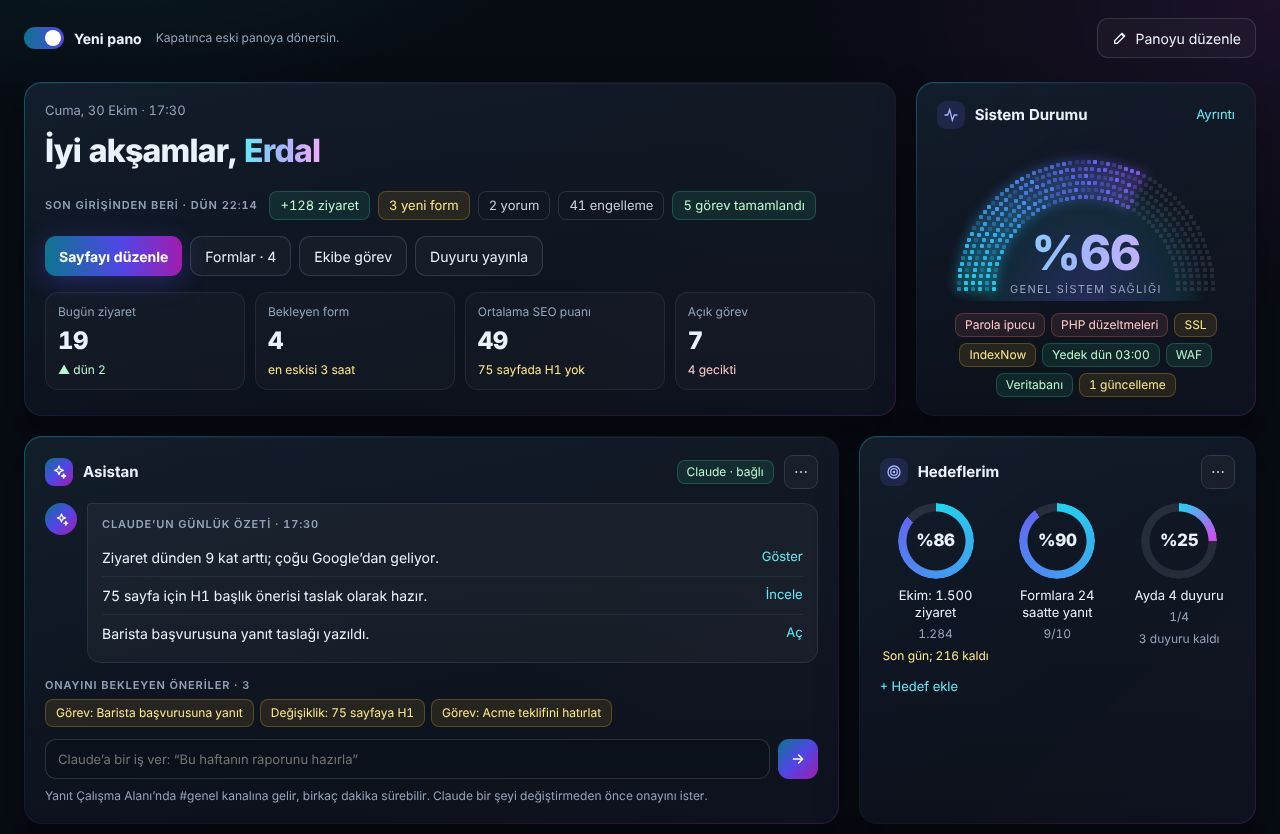
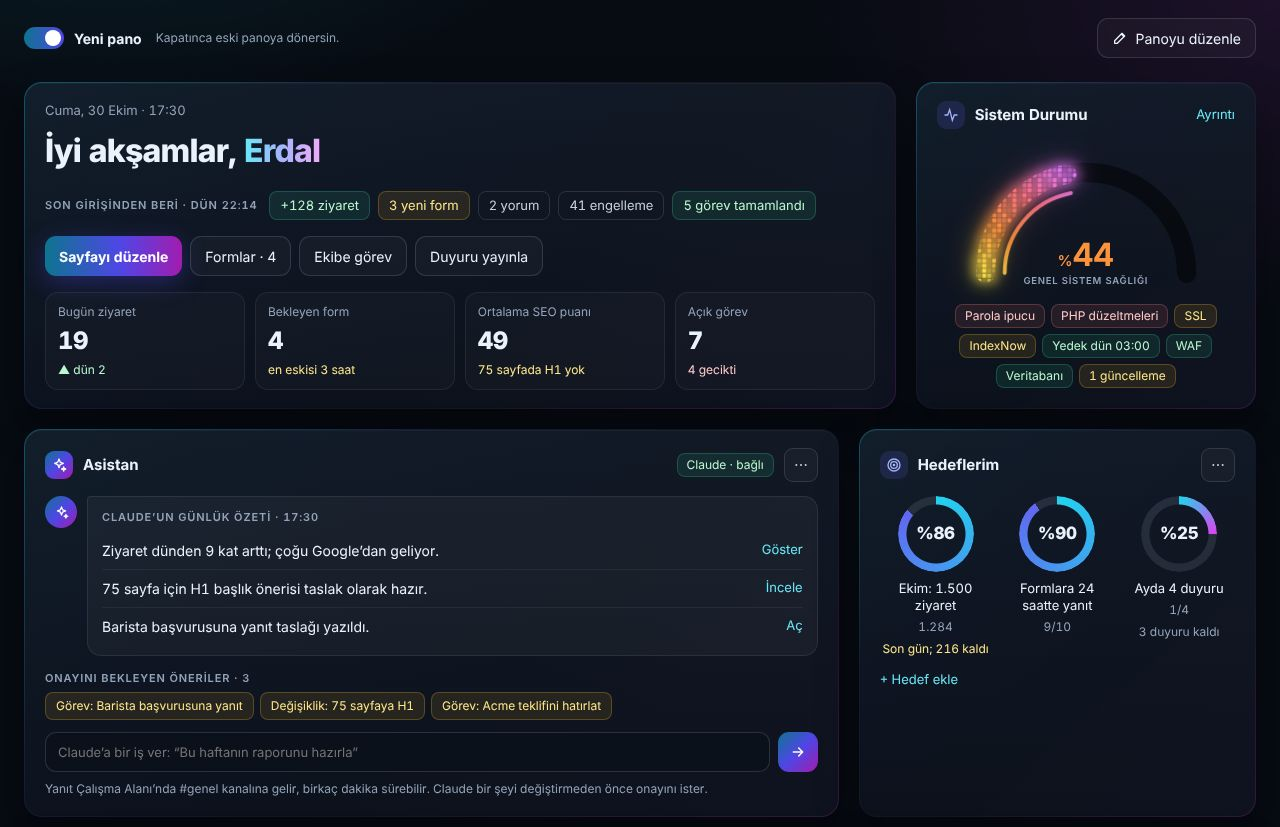
New dashboard plan: the System Status card keeps the current gauge
The new dashboard's System Status card draws widget 2's gauge (the half
arc in the score's colour band with its pixel matrix, glow layers and
readout) instead of the design's dot half ring. N3 moves the gauge into
one function both dashboards call, widget 2's output unchanged. The
screens with the card are drawn again with the current gauge.

diff --git a/docs/memory/plans/new-dashboard-top.md b/docs/memory/plans/new-dashboard-top.md
@@ -15,8 +15,9 @@ description: New dashboard plan: the switch row on both dashboards, the greeting
 - Each figure is one function with its gate, shared by tiles, goals and chips (`new-dashboard-data.md`).
 
 ## What is the System Status card? (N3, screen 01)
-- Widget 2's score and checks in the new look: a half ring of six rows of dots, lit up to the score in the cyan-indigo-magenta gradient with a slow twinkle (none under `prefers-reduced-motion` or with lights off); "%66" and "OVERALL SYSTEM HEALTH" in the middle; the checks as chips (bad, warn, good) linking where widget 2's do (`ui/dashboard-keyboard.md`). "Details" opens what widget 2's header opens.
-- Role < 3, as widget 2. Same numbers on both dashboards: one function computes them for both; widget 2's output does not change.
+- Owner (2026-11-01): its gauge is the current one, widget 2's `.pg-health` (the half arc in the score's colour band, the pixel matrix and its twinkle, the inner hairline, the glow layers, light and dark stop sets, the readout, the observer that pauses it off screen), not the design's dot half ring: three days of work went into it.
+- N3 moves the gauge's PHP (bands, gradient axis, cells, clip, markup, script) out of `widget_2.php` into one function both call; widget 2's output stays byte for byte the same (a test compares it). Its rules (`.pg-health*` in `backend.src.css`) are global and stay; lights off and `prefers-reduced-motion` use its own pause and reduced-motion rules.
+- Under it the checks as chips (bad, warn, good) linking where widget 2's do (`ui/dashboard-keyboard.md`); "Details" opens what widget 2's header opens. Same score and checks on both dashboards (`get_system_status_checks()`). Role < 3, as widget 2.
 - Hideable: "Hide" in edit mode; while hidden, edit mode shows a dashed strip "System Status hidden · Show". When it is hidden or not allowed, the greeting card takes the whole row.
 
 ## How does the top row lay out?

diff --git a/docs/memory/plans/new-dashboard-visuals.md b/docs/memory/plans/new-dashboard-visuals.md
@@ -5,6 +5,7 @@ description: The new dashboard design the owner asked for on 2026-11-01: its 22 
 
 ## Where are they and how are they read?
 - `docs/memory/plans/new-dashboard/NN-name.jpg`, 1280 px wide (single cards and panels narrower), Turkish labels, the design's dark look with sample data. They fix layout and behaviour; colours and spacing come from the panel's tokens and the current card styles, in light and dark (`new-dashboard-data.md`).
+- The System Status card shows the current gauge (widget 2's, at the sandbox's score), which the owner chose on 2026-11-01 over the prototype's dot half ring (`new-dashboard-top.md`).
 - The design's top bar is left out of every screen. The row with "Yeni pano" and "Panoyu düzenle" at the top is the planned switch row (`new-dashboard-top.md`); it is not in the prototype.
 - `plans/new-dashboard/prototype/Main.dc.html`: the prototype source (a design-canvas component; it needs that runtime and its map pictures, not here). Read it for labels, sample rows, presets, the edit logic and the card list: `data()` and `renderVals()`.
 

diff --git a/docs/memory/plans/new-dashboard-steps.md b/docs/memory/plans/new-dashboard-steps.md
@@ -16,7 +16,7 @@ description: Steps N1-N14 of plans/new-dashboard.md: size, screens, order, which
   - Sign-in chips per preset, the shortcut pool with gates, four tiles, `figures.php` with the eleven figures and their tests.
 
 - N3 (M) System Status card and look. Screens 01, 12-14. `free` after N1.
-  - The dot gauge, check chips, Details; widget 2's numbers through one shared function; card styles, backdrops, compact, lights off, light and dark.
+  - The current gauge moved out of `widget_2.php` into one function both call (owner, `new-dashboard-top.md`), check chips, Details; card styles, backdrops, compact, lights off, light and dark.
 
 - N4 (L) Card frame and data. Screens 03, 17. `free` after N1.
   - Grid and widths, card header (icon, title, chip, badge, period pill, "…"), `dashboard_cards` with batch and solo, the card contract, refresh, empty and error states; `visitors` (SVG line with compare) and `engagement`.
